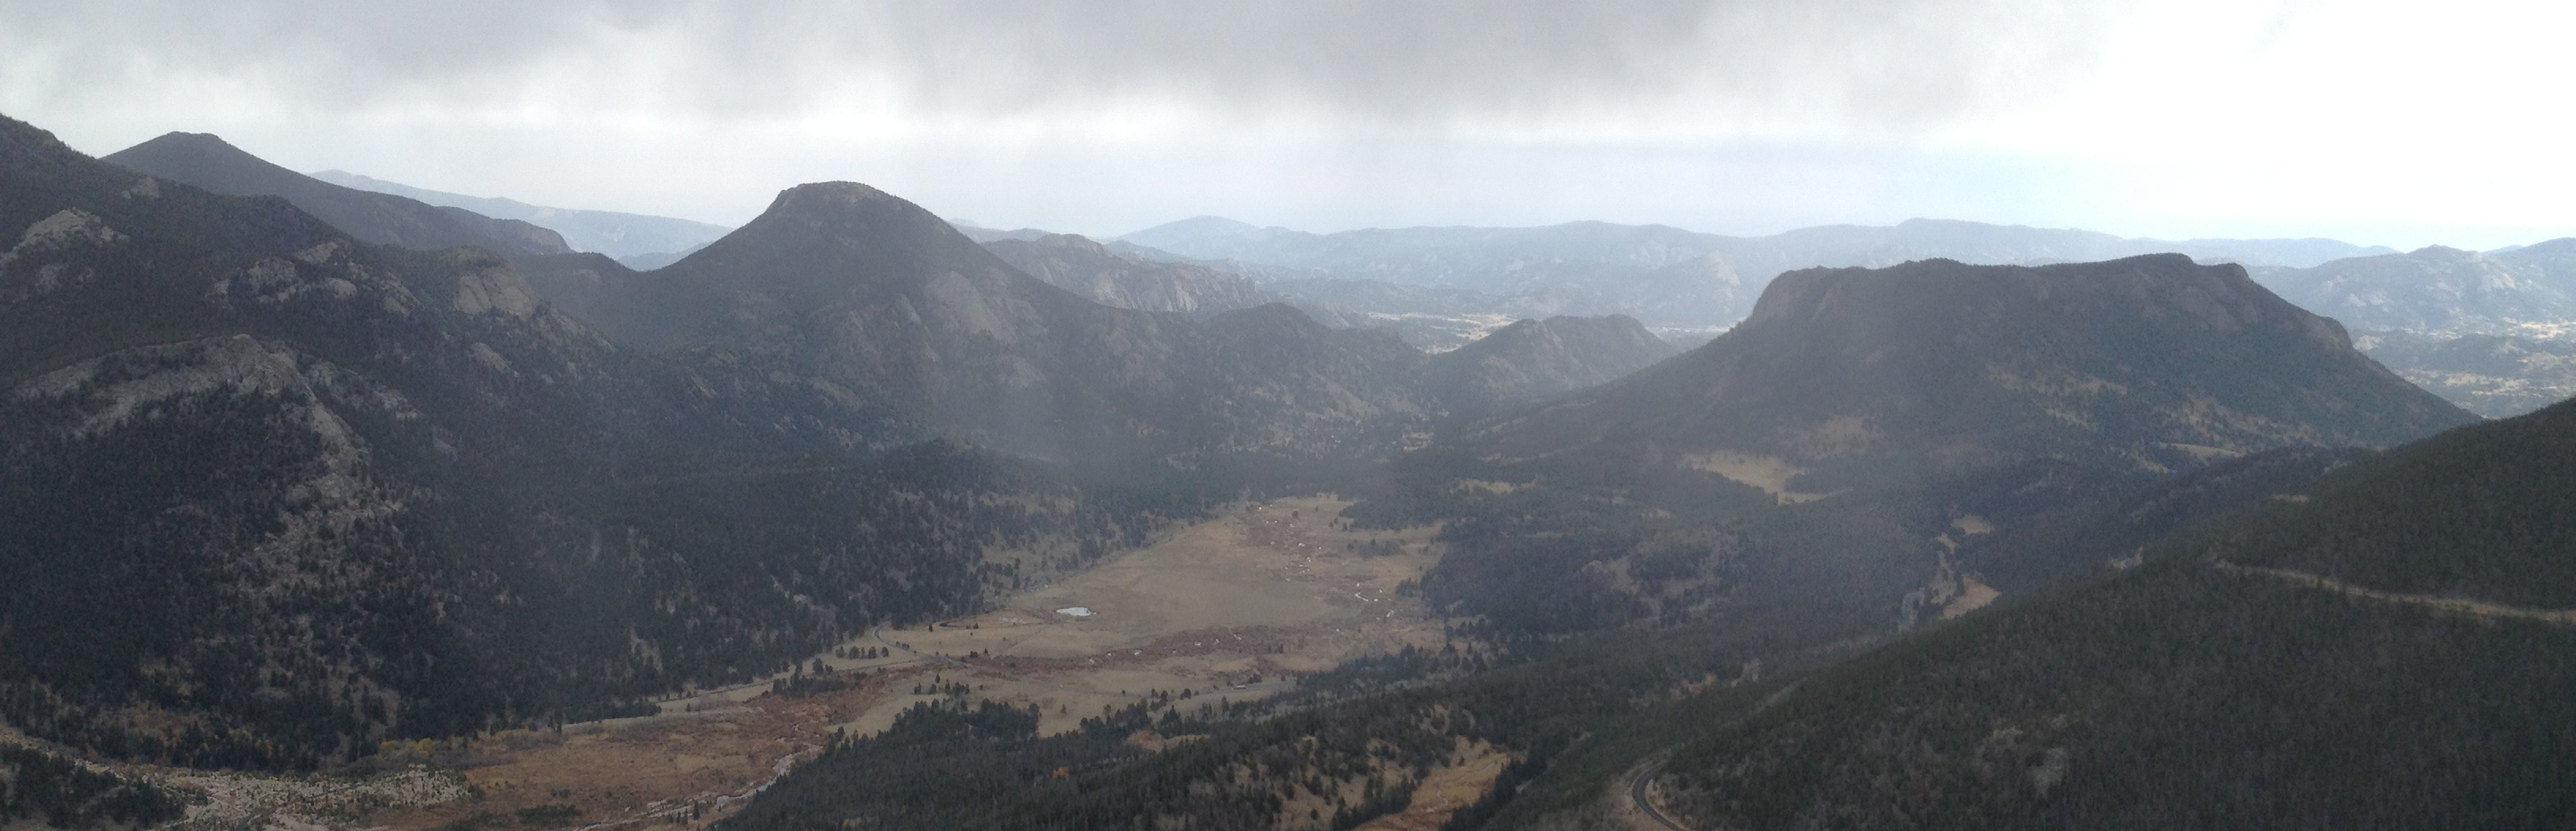
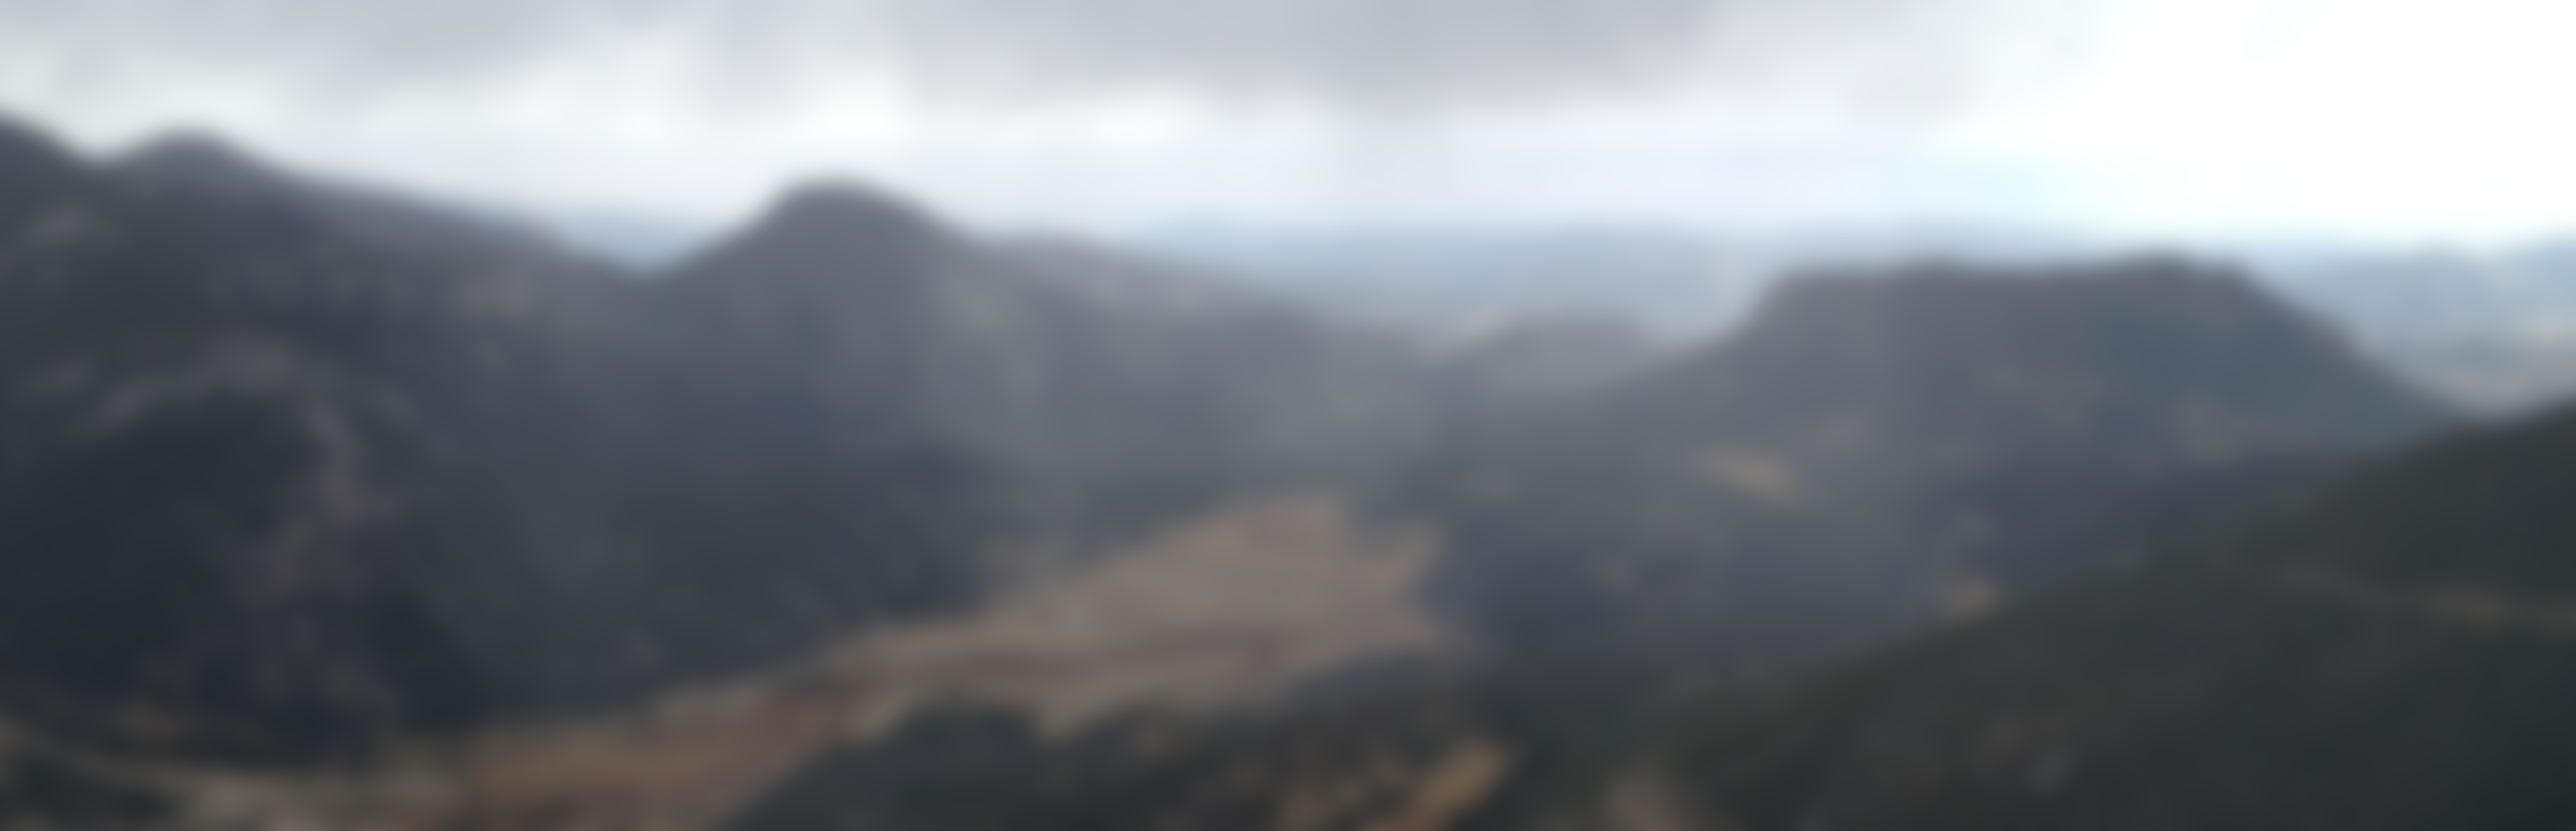
deleted header and blurred background

diff --git a/app/index.html b/app/index.html
@@ -30,25 +30,11 @@
         <![endif]-->
 
 
-            <div class="header">
-                <div class="container">
-                    <img src="images/tylerlogowhite.png" class="logo  col-4">
-                    <div class="navigation">
-                        <div class="nav-top"><a href="#about">about</a></div>
-                        <div class="nav-top"><a href="#code">web development</a></div>
-                        <div class="nav-top"><a href="#about">design</a></div>
-                        <div class="nav-top"><a href="#contact">contact</a></div>
-                    </div>
-                    <a href="https://github.com/tyhus14"><img src="images/Github.png" class="icons"></a>
-                    <a href="https://www.linkedin.com/profile/view?id=120129596&trk=nav_responsive_tab_profile"><img src="images/linkedin.png" class="icons"></a>
-                    <a href="https://hustontyler3.wordpress.com/"><img src="images/wordpress.png" class="icons"></a>
-                    <a href="https://twitter.com/tyhus14"><img src="images/twitter.png" class="icons"></a>
-                    <a href="https://vimeo.com/tylerjhuston"><img src="images/vimeo.png" class="icons"></a>
-                </div>
-            </div>
             
-                <div class="middle">
-                    <div class="container">
+            <img src="images/mountain.png" class="img-responsive mountain" alt="Responsive image">
+                <div class="container">
+                    <div class="middle">
+                        <img src="images/tylerlogo.png" class="logo-black">
                         <h1>Tyler Huston</h1>
                         <span>Building quality web applications and sites while enhancing user experience.</span>
                     </div> 
@@ -57,11 +43,15 @@
             <div class="container">
             </div>
             <div class="work"></div>
-            <div class="footer"></div>
-
-
-            
-
+            <div class="footer">
+                <div class="container">
+                <a href="https://github.com/tyhus14"><img src="images/Github.png" class="icons"></a>
+                <a href="http://dribbble.com/tyhus14"><img src="images/dribbble.png" class="icons"></a>
+                <a href="https://www.linkedin.com/profile/view?id=120129596&trk=nav_responsive_tab_profile"><img src="images/linkedin.png" class="icons"></a>
+                <a href="https://hustontyler3.wordpress.com/"><img src="images/wordpress.png" class="icons"></a>
+                <a href="https://twitter.com/tyhus14"><img src="images/twitter.png" class="icons"></a>
+                <a href="https://vimeo.com/tylerjhuston"><img src="images/vimeo.png" class="icons"></a></div>
+            </div>
         </div>
 
 

diff --git a/app/styles/main.scss b/app/styles/main.scss
@@ -70,6 +70,7 @@ body {
 /* Responsive: Portrait tablets and up */
 @media screen and (min-width: 768px) {
     .container {
+        position: relative;
         max-width: 960px;
     }
 
@@ -91,6 +92,7 @@ body {
 }
 
 .logo {
+    margin-top: 20px;
     height: 60px;
     display: inline-block;
     &:hover {
@@ -103,15 +105,14 @@ body {
     height: 100px; 
     line-height: 100px;
     display: inline;
-    position: relative;
+    position: absolute;
 }
 
 .navigation {
     display: inline-block;
-    position: relative;
+    position: absolute;
     text-align: center;
-    width: 70%;
-    margin: 0 auto;
+    right: 0;
 }
 
 .nav-top {
@@ -128,7 +129,7 @@ body {
 }
 
 .icons {
-    width: 40px;
+    width: 80px;
     display: inline;
     &:hover {
         opacity: .4;
@@ -140,28 +141,24 @@ body {
     display: block;
     max-width: 100%;
     height: auto;
-    position: relative;
+    position: absolute;
     z-index: -1;
 }
 
 .middle {
+    position: relative;
     text-align: center;
     height: 500px;
-    color: white;
+    color: #fff;
     h1 {
-        margin-top: 200px;
         text-align: center;
     }
     span {
         font-size: 20px;
         text-align: center;
-        color: black;
-        color: white;
+        color: #fff;
     }
-    background-image: url('images/mountain.png');
-    background-repeat: no-repeat;
-    background-attachment: fixed;
-    background-size: cover;
+  
 }
 
 .work   {
@@ -174,6 +171,13 @@ body {
     position: relative;
     height: 200px;
     background: rgb(49, 49, 52);
+    text-align: center;
+    line-height: 200px;
+}
+
+.logo-black {
+    margin-top: 50px;
+    height: 120px;
 }
 
 
